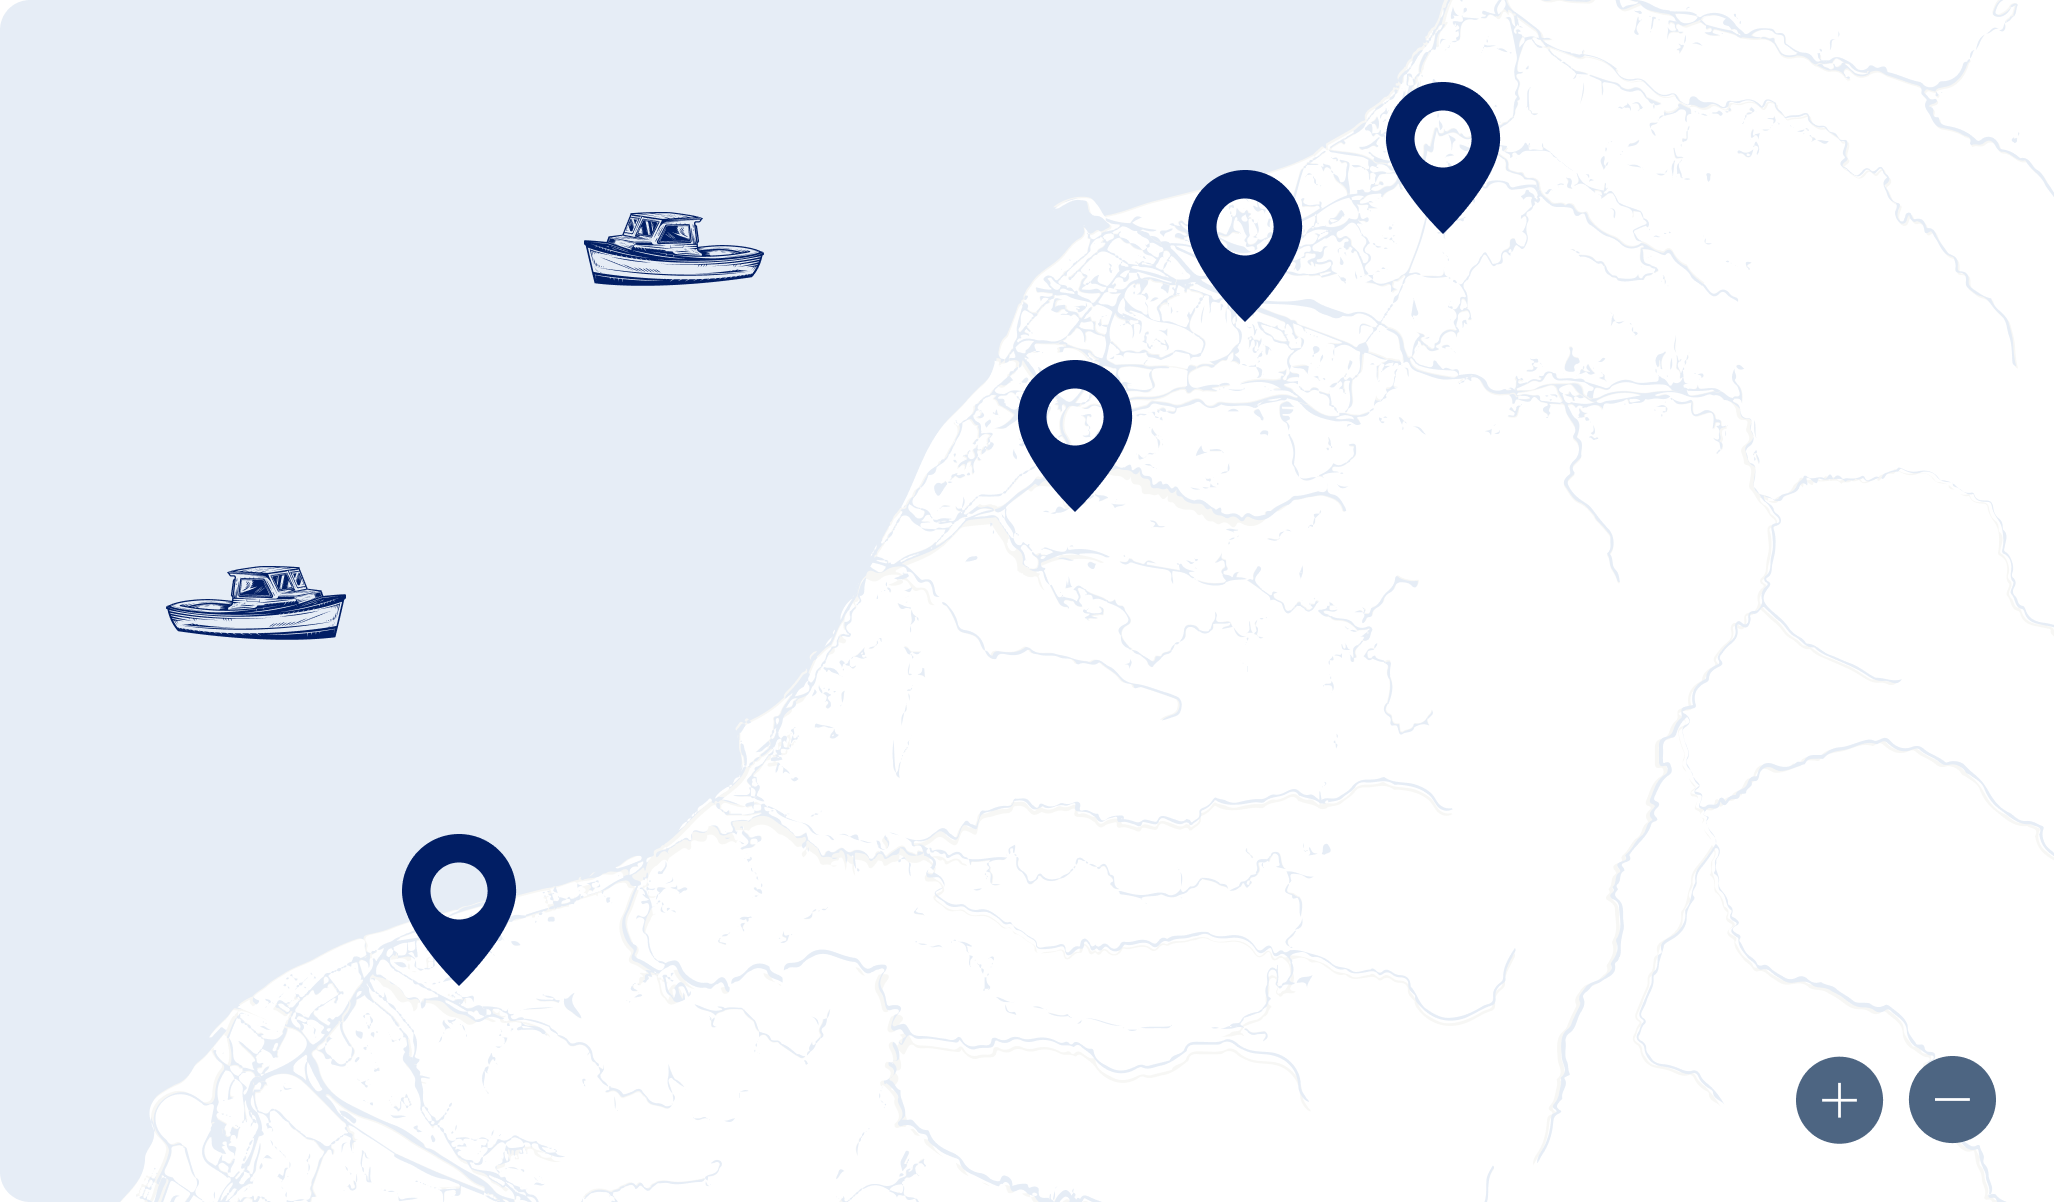
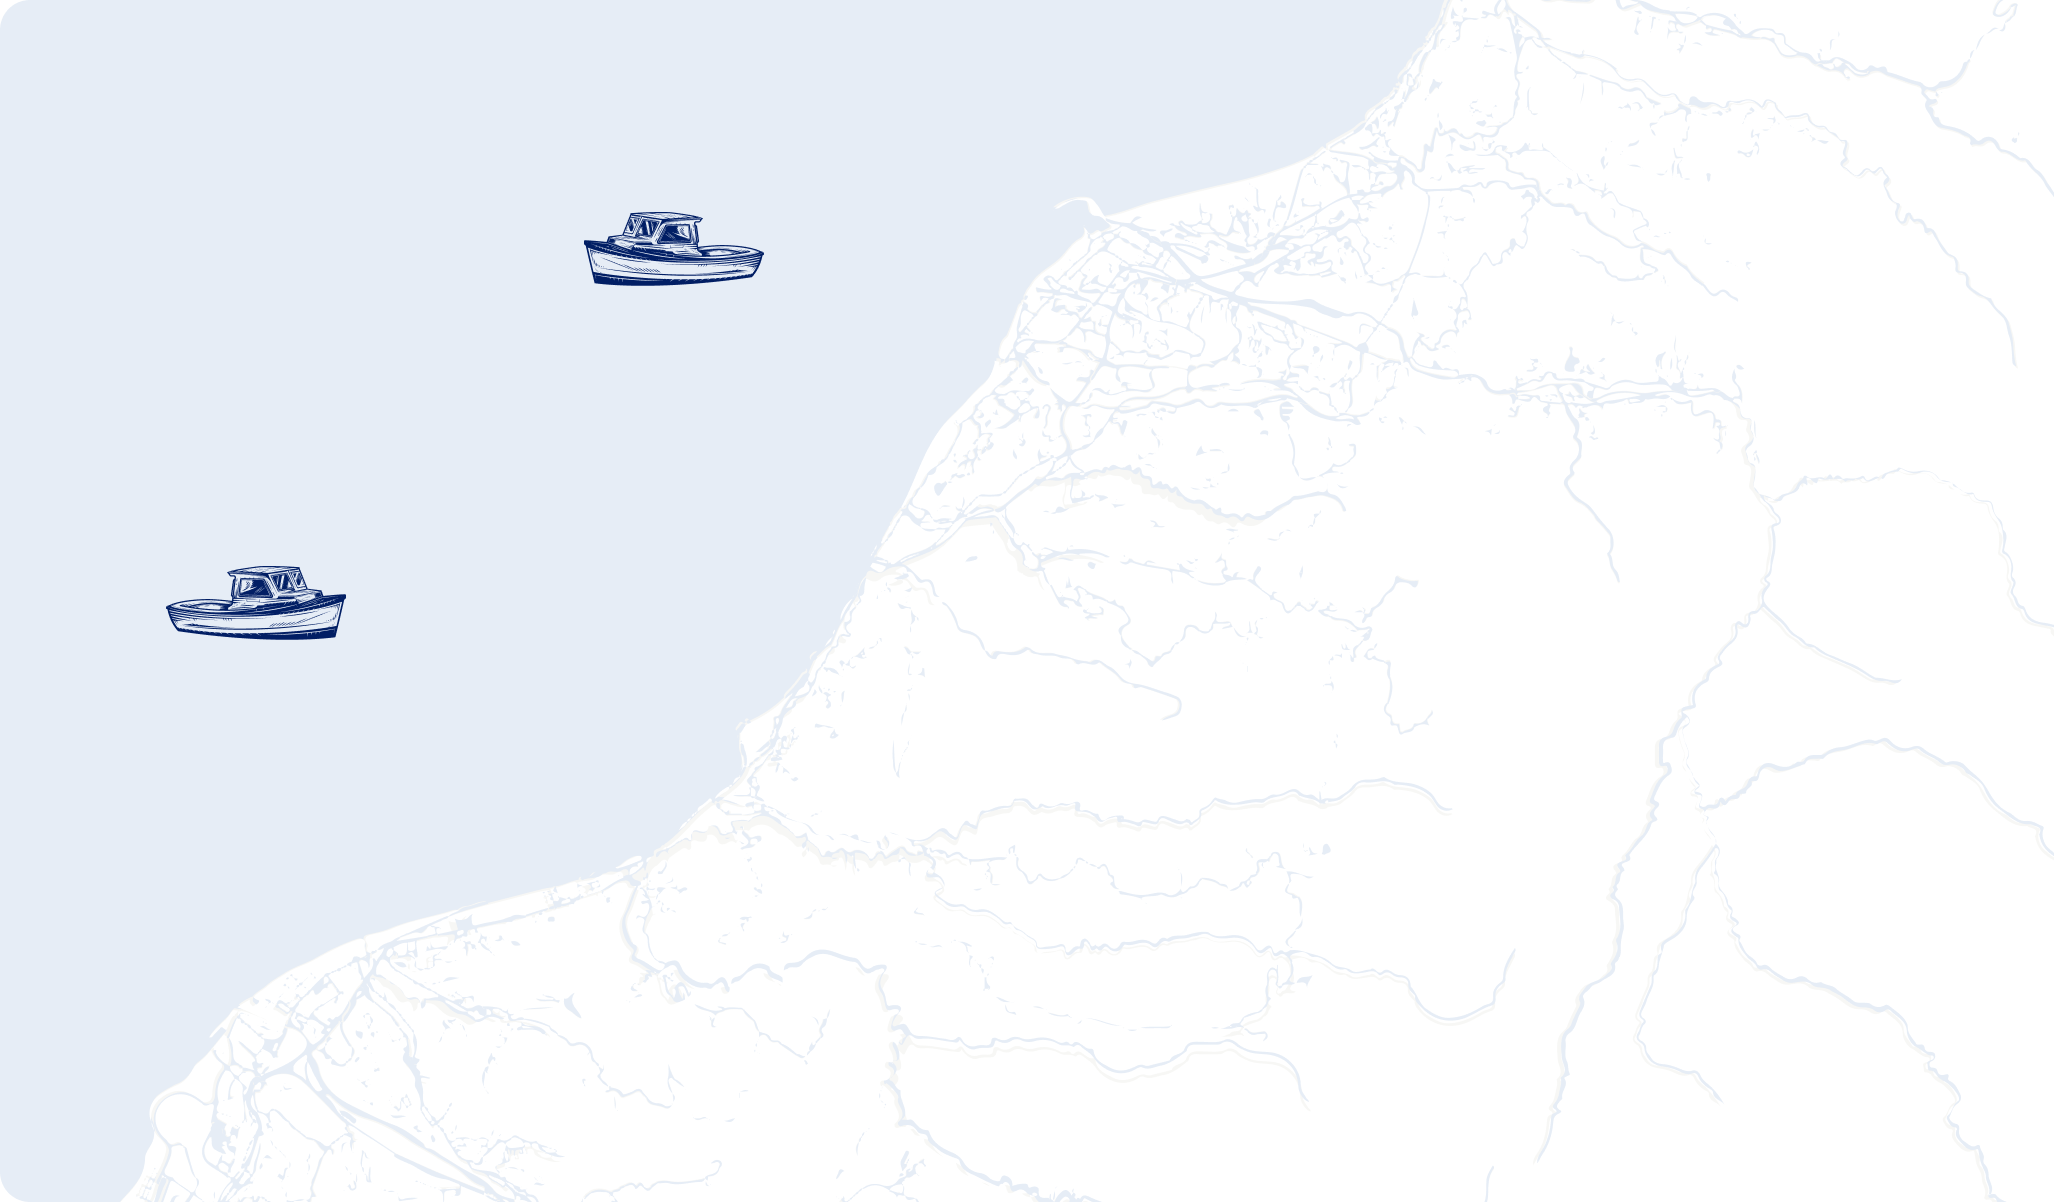
fix

diff --git a/src/scss/sections/_assortiment.scss b/src/scss/sections/_assortiment.scss
@@ -60,3 +60,31 @@
 		row-gap:8px;
 	}
 }
+.show-store-card{
+	width: remy(60);
+	height: remy(80);
+	display: flex;
+	justify-content: center;
+	align-items: center;
+	position: absolute;
+	z-index: 2;
+}
+.map-wrapper{
+	position: relative;
+	[data-store="1"]{
+		top: 16%;
+        left: 85%;
+	}
+	[data-store="2"]{
+		top: 23%;
+        left: 69%;
+	}
+	[data-store="3"]{
+		top: 39%;
+		left: 56%;
+	}
+	[data-store="4"]{
+		top: 78%;
+		left: 7%;
+	}
+}

diff --git a/src/scss/base/_icons.scss b/src/scss/base/_icons.scss
@@ -52,6 +52,15 @@ svg.svg-cart{
 	height: remy(12);
 	color: #0E1526;
 }
+.svg-pin{
+	width: remy(58);
+	height: remy(76);
+	color: #011E64;
+	@media (max-width: 767px) {
+	  width: 44px;
+	  height: 33px;
+	}
+}
 .svg-minus{
 	width: remy(12);
 	height: remy(2);color: #0E1526;
